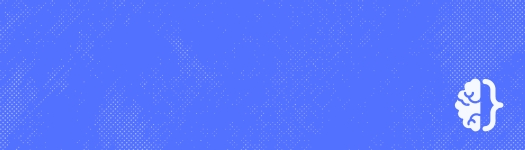
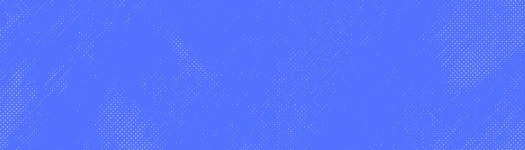
تعديل اللوجو الخاص بي في صورة الهيرو عشان يكون واضح في شاشات المحمول

Changed region(s): [[0.8533, 0.5067, 0.9752, 0.88]]

diff --git a/index.html b/index.html
@@ -13,6 +13,7 @@
       <!-- header -->
       <header class="header">
         <div class="hero">
+          <img class="logo" src="./assets/images/logo.svg" alt="logo">
           <img class="profile" src="./assets/images/profile.jpg" alt="profile" />
         </div>
         <h1 class="name">عبدالله سيد</h1>
@@ -32,4 +33,3 @@
     </div>
   </body>
 </html>
-s

diff --git a/assets/css/abdsy.css b/assets/css/abdsy.css
@@ -83,6 +83,13 @@ body {
       border-radius: 5px;
       position: relative;
       margin-bottom: 25px;
+      position: relative;
+      .logo {
+        position: absolute;
+        right: 10px;
+        bottom: 10px;
+        width: 40px;
+      }
       .profile {
         position: absolute;
         bottom: -20px;
